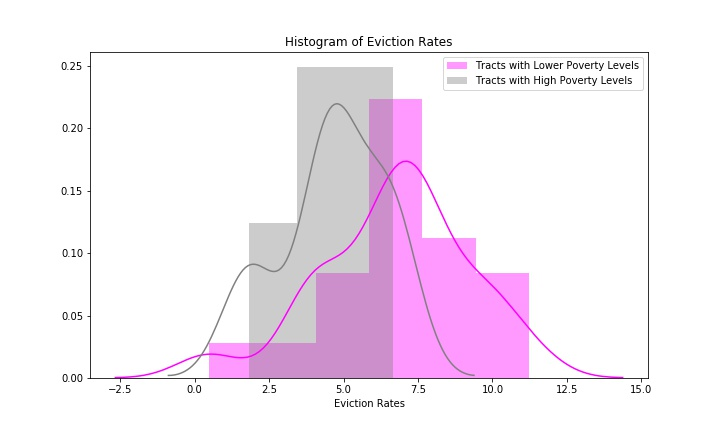
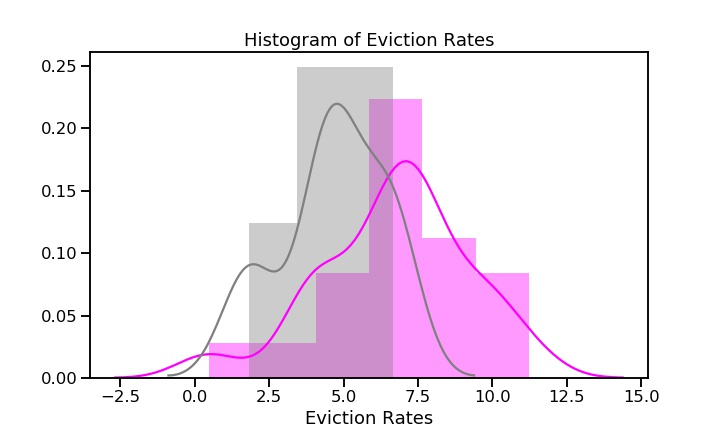
Updated visuals

diff --git a/python_files/.ipynb_checkpoints/hypothesis_tests-checkpoint.py b/python_files/.ipynb_checkpoints/hypothesis_tests-checkpoint.py
@@ -23,7 +23,7 @@ def create_sample_dists(sample1, sample2, y_var=None):
     :return: a list of sample distributions to be used in subsequent t-tests
 
     """
-    return (plt.figure(figsize = (10, 6)), sns.distplot(sample1[y_var], color = 'magenta'), sns.distplot(sample2[y_var], color = 'gray'))
+    return (sns.set_context('talk'), plt.figure(figsize = (10, 6)), sns.distplot(sample1[y_var], color = 'magenta'), sns.distplot(sample2[y_var], color = 'gray'))
 
 def create_PUD_variable_and_samples(dataframe, ):
     """This function creates a pud variable and two samples.

diff --git a/python_files/hypothesis_tests.py b/python_files/hypothesis_tests.py
@@ -23,7 +23,7 @@ def create_sample_dists(sample1, sample2, y_var=None):
     :return: a list of sample distributions to be used in subsequent t-tests
 
     """
-    return (plt.figure(figsize = (10, 6)), sns.distplot(sample1[y_var], color = 'magenta'), sns.distplot(sample2[y_var], color = 'gray'))
+    return (sns.set_context('talk'), plt.figure(figsize = (10, 6)), sns.distplot(sample1[y_var], color = 'magenta'), sns.distplot(sample2[y_var], color = 'gray'))
 
 def create_PUD_variable_and_samples(dataframe, ):
     """This function creates a pud variable and two samples.
